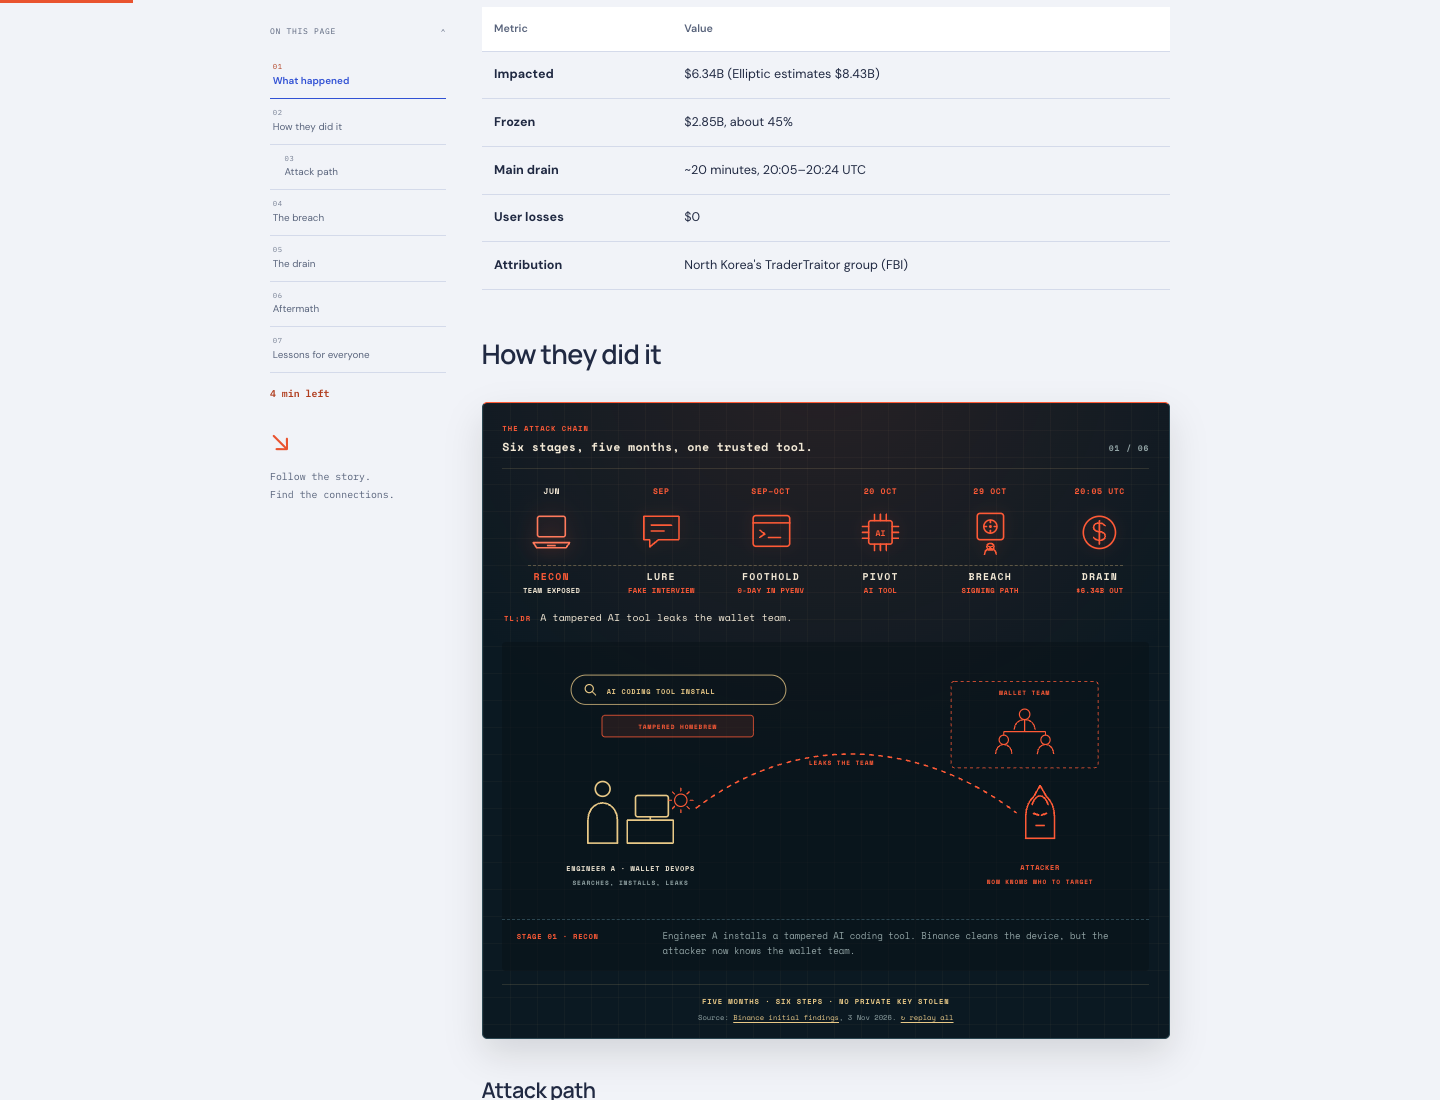
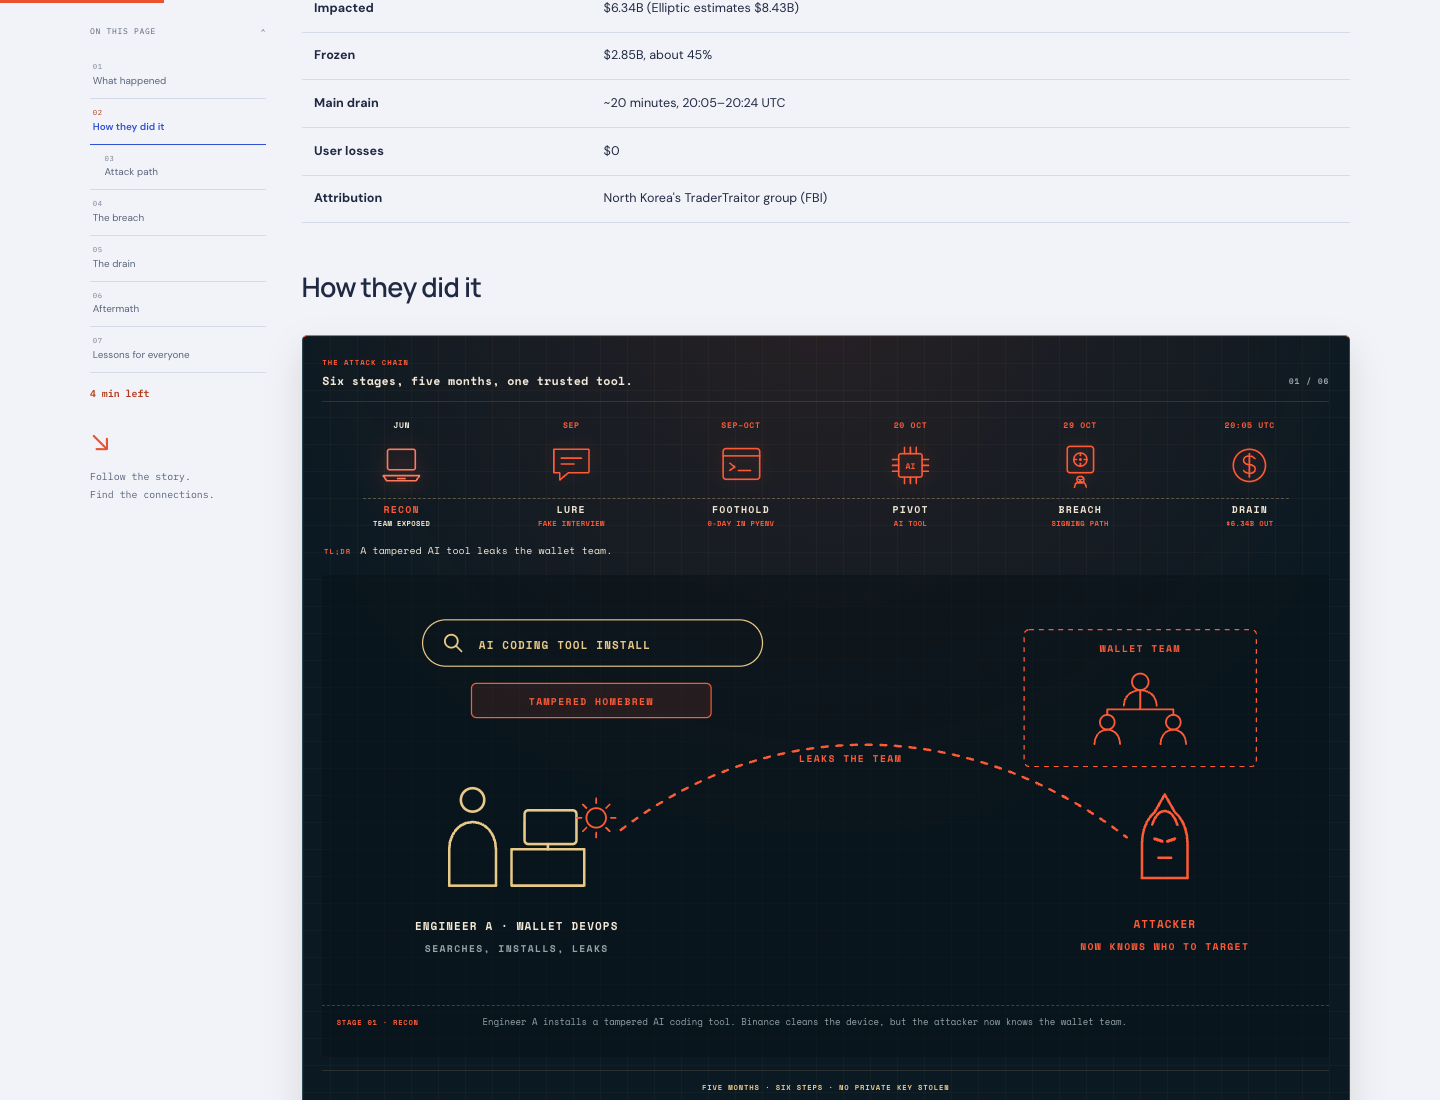
Use wide screens: fluid article canvas to 1400px and a 900px reading measure

diff --git a/css/site.css b/css/site.css
@@ -108,8 +108,8 @@ button:focus-visible, a:focus-visible, input:focus-visible, summary:focus-visibl
 .site-footer { display: flex; align-items: center; gap: 28px; padding-block: 35px; }.site-footer .wordmark { font-size: 19px; }.site-footer > div > p { font-size: 11px; color: var(--muted); margin: 7px 0 0; }.site-footer nav { display: flex; flex-wrap: wrap; gap: 20px; font-size: 11px; margin-left: auto; }.site-footer nav a:hover { color: var(--accent); }.footer-credit { color: var(--muted); font: 8px var(--mono); }
 /* Articles: existing content is retained verbatim. */
 /* Article canvas = contents rail + gap + the 760px reading measure; wide figures span the measure, margins stay symmetric. */
-#post { max-width: 1000px; }
-.post-header { padding: 32px 0 40px; max-width: 1080px; margin: 0 auto; }.back-link { color: var(--muted); font-size: 11px; display: inline-flex; margin-bottom: 32px; }.post-topics { display: flex; flex-wrap: wrap; gap: 8px 15px; color: var(--accent); font: 10px/1.7 var(--mono); text-transform: uppercase; }.post-topics a:hover { text-decoration: underline; }
+#post { max-width: 1400px; }
+.post-header { padding: 32px 0 40px; max-width: 1240px; margin: 0 auto; }.back-link { color: var(--muted); font-size: 11px; display: inline-flex; margin-bottom: 32px; }.post-topics { display: flex; flex-wrap: wrap; gap: 8px 15px; color: var(--accent); font: 10px/1.7 var(--mono); text-transform: uppercase; }.post-topics a:hover { text-decoration: underline; }
 .post-header h1 { font: 600 clamp(36px, 4.6vw, 68px)/1.12 var(--heading); letter-spacing: -.045em; margin: 20px 0 24px; overflow-wrap: break-word; }.post-deck { color: var(--muted); font-size: 17px; line-height: 1.8; margin: 0 0 25px; max-width: 790px; }
 .post-byline { display: flex; align-items: center; gap: 11px; font-size: 11px; }.post-byline img { border-radius: 50%; object-fit: cover; width: 40px; height: 40px; }.post-byline > div > a { font-weight: 600; }.post-byline p { display: flex; align-items: center; flex-wrap: wrap; gap: 10px; color: var(--muted); margin: 3px 0 0; font-size: 10px; }.copy-link { margin-left: auto; border: 1px solid var(--line); padding: 8px 12px; background: var(--surface); font: 10px var(--mono); }
 .post-feature { margin: 0 0 35px; }.post-feature img { display: block; max-height: 520px; width: 100%; object-fit: cover; }.post-feature figcaption { font-size: 11px; color: var(--muted); }
@@ -121,7 +121,7 @@ button:focus-visible, a:focus-visible, input:focus-visible, summary:focus-visibl
 .toc-disclosure summary { display: flex; justify-content: space-between; gap: 10px; font: 9px/1.7 var(--mono); color: var(--muted); letter-spacing: .08em; cursor: pointer; padding-block: 4px 16px; list-style: none; }.toc-disclosure summary::-webkit-details-marker { display: none; }.toc-disclosure[open] summary > span { transform: rotate(180deg); }
 .post-toc ol { list-style: none; margin: 0; padding: 0; }.post-toc a { display: block; color: var(--muted); padding: 10px 3px; border-bottom: 1px solid var(--line); font-size: 11px; line-height: 1.6; overflow-wrap: anywhere; }.post-toc a[aria-current="location"] { color: var(--accent); font-weight: 600; border-bottom-color: var(--accent); }.post-toc a:hover { color: var(--accent); }.toc-index { display: block; font: 8px var(--mono); letter-spacing: .1em; color: var(--muted); opacity: .8; margin-bottom: 2px; }.post-toc a[aria-current="location"] .toc-index { color: var(--citrus-ink); opacity: 1; }.post-toc li[data-heading-level="3"] > a { padding-left: 16px; }.post-toc li[data-heading-level="4"] > a { padding-left: 32px; }.toc-left { margin: 16px 0 0; font: 11px var(--mono); color: var(--muted); }.toc-left [data-toc-remaining] { color: var(--citrus-ink); font-weight: 600; }.toc-footnote { font: 11px/1.9 var(--mono); margin-top: 28px; color: var(--muted); }.toc-footnote > span { display: block; font: 30px var(--body); color: var(--citrus); margin-bottom: 8px; }
 .post-content { min-width: 0; font-size: 17px; line-height: 1.85; overflow-wrap: break-word; }
-.post-content > :is(p, ul, ol, h2, h3, h4, h5, h6, blockquote, pre, .highlight) { max-width: 760px; }
+.post-content > :is(p, ul, ol, h2, h3, h4, h5, h6, blockquote, pre, .highlight) { max-width: 900px; }
 .post-content p { margin: 0 0 1.35em; }.post-content h1, .post-content h2, .post-content h3, .post-content h4, .post-content h5, .post-content h6 { color: var(--ink); line-height: 1.3; letter-spacing: -.025em; font-family: var(--heading); font-weight: 600; margin: 1.7em 0 .75em; scroll-margin-top: 85px; }.post-content h2 { font-size: 30px; }.post-content h3 { font-size: 24px; }.post-content h4 { font-size: 21px; }.post-content h5, .post-content h6 { font-size: 18px; }.post-content > :first-child { margin-top: 0; }
 .post-content a:not(.attack-player a) { color: var(--accent); text-decoration: underline; text-underline-offset: 3px; }.post-content ul, .post-content ol { padding-left: 24px; margin: 0 0 1.4em; }.post-content li { margin-bottom: .65em; }.post-content li > p { margin-bottom: .5em; }.post-content li > ul, .post-content li > ol { margin-block: .5em; }.post-content strong { font-weight: 700; }
 .post-content blockquote { margin: 1.7em 0; padding: 16px 24px; background: var(--soft); border-left: 2px solid var(--accent); color: var(--muted); }.post-content blockquote p:last-child { margin-bottom: 0; }.post-content hr { border: 0; border-top: 1px solid var(--line); margin-block: 32px; }
